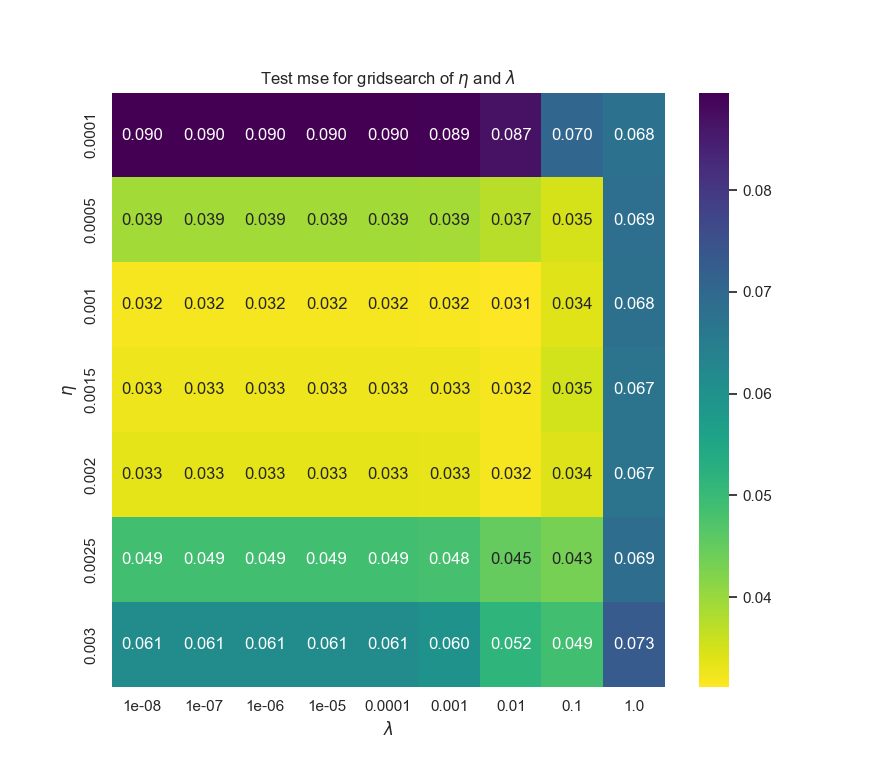
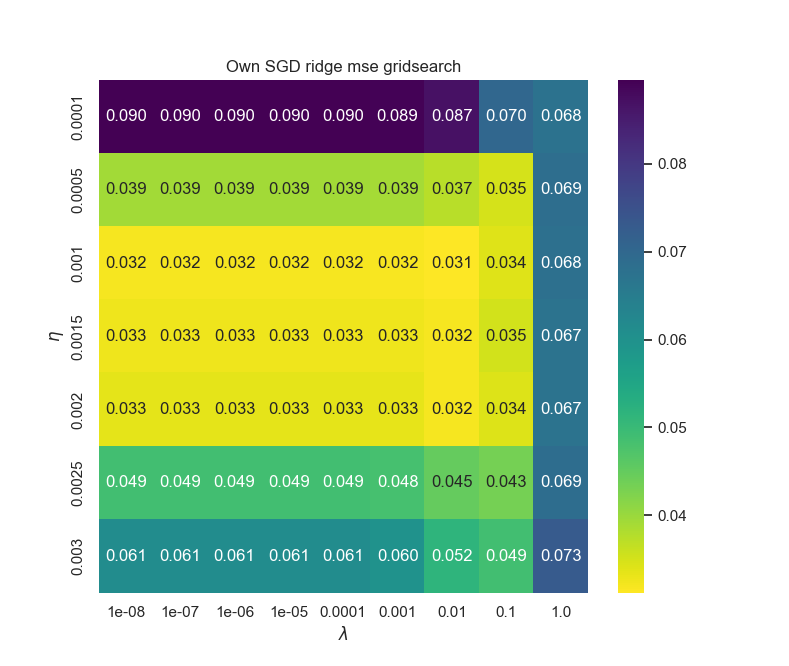
Rydding i figurer og gridsearcher for SGD

diff --git a/project2/SGDRegression.py b/project2/SGDRegression.py
@@ -47,13 +47,13 @@ print("OLS errors")
 print(mean_squared_error(z_test, ytilde_ols))
 print(r2_score(z_test, ytilde_ols))
 print("")
-"""
+
 model_ridge = Ridge(alpha=1e-7).fit(X_train, z_train)
 ytilde_ridge = model_ridge.predict(X_test)
 print("Ridge errors")
 print(mean_squared_error(z_test, ytilde_ridge))
 print(r2_score(z_test, ytilde_ridge))
-"""
+
 
 # For testing single values
 sgdreg = Sdg(X_train, X_test, z_train, z_test, 0.001, 5, 1000)
@@ -226,68 +226,96 @@ plt.show()
 print("Errors with RMS-prop")
 print("MSE: ", mse)
 print("$r^2$: ", r2)
-
-# Gridsearch for eta and gamma
-etas = [0.005,0.01,0.015,0.02,0.025, 0.03]
+"""
+# Gridsearch for eta and gamma/beta for use with momentum and rms-prop. Used for both OLS and Ridge
+etas = [0.005,0.01,0.015,0.02,0.025, 0.03] # rmsprop
+#etas = [0.0001,0.0005,0.001,0.0015,0.002, 0.0025, 0.003] # momentum constant learning rate
 betas = [0,0.1,0.2,0.3,0.4,0.5,0.6,0.7,0.8,0.9]
 mse = np.zeros((len(etas), len(betas)))
 r2 = np.zeros((len(etas), len(betas)))
 for i in range(len(etas)):
     for j in range(len(betas)):
         sgdreg = Sdg(X_train, X_test, z_train, z_test, etas[i], 10, 500)
-        mse[i,j], r2[i,j] = sgdreg.stocastichGD_ols(algo="rmsprop", beta=betas[j])
+        print("")
+        print(etas[i])
+        print(betas[j])
+        mse[i,j], r2[i,j] = sgdreg.stocastichGD_ridge(0.01, algo="rmsprop", beta=betas[j], schedule=False)
         print(mse[i,j])
 
 mse_df_test = pd.DataFrame(mse, index = etas, columns = betas)
-fig, ax = plt.subplots(figsize = (9, 9))
+fig, ax = plt.subplots(figsize = (8, 8))
 sns.heatmap(mse_df_test, annot=True, ax=ax, cmap="viridis_r", fmt='.3f')
-ax.set_title("Gridsearch showing mse")
-ax.set_xlabel("$beta$")
+ax.set_title("SGD RMS-prop ridge mse gridsearch")
+ax.set_xlabel("beta")
 ax.set_ylabel("$\eta$")
 plt.show()
 
 mse_df_test = pd.DataFrame(r2, index = etas, columns = betas)
-fig, ax = plt.subplots(figsize = (9, 9))
+fig, ax = plt.subplots(figsize = (8, 8))
 sns.heatmap(mse_df_test, annot=True, ax=ax, cmap="viridis", fmt='.3f')
-ax.set_title("Gridsearch showing $r^2$ error")
-ax.set_xlabel("$beta$")
+ax.set_title("SGD RMS-prop ridge $r^2$ score gridsearch")
+ax.set_xlabel("beta")
 ax.set_ylabel("$\eta$")
 plt.show()
+"""
 
 '''--------------------------------------------------
                 # RIDGE REGRESSION
 ---------------------------------------------------'''
 
 
-# regular SGD ridge gridsearch
+# SGD ridge gridsearch for eta/lambda
 print('Regular SGD ridge gridsearch')
-epochs = 500
-M = 10
 lambdas = np.logspace(-8,0,9)
 etas = [0.0001,0.0005,0.001,0.0015,0.002,0.0025,0.0030]
 mse_gridsearch = np.zeros((len(etas), len(lambdas)))
 r2_gridsearch = np.zeros((len(etas), len(lambdas)))
+mse_scikit = np.zeros((len(etas), len(lambdas)))
+r2_scikit = np.zeros((len(etas), len(lambdas)))
 #sgdreg = Sdg(X_train, X_test, z_train, z_test, 0.001, M, epochs)
 #sgdreg.stocastichGD_ridge(0)
 
 for i in range(len(etas)):
     for j in range(len(lambdas)):
-        sgdreg = Sdg(X_train, X_test, z_train, z_test, etas[i], M, epochs)
-        mse_gridsearch[i,j], r2_gridsearch[i,j] = sgdreg.stocastichGD_ridge(lambdas[j])
+        sgdreg = Sdg(X_train, X_test, z_train, z_test, etas[i], 10, 500)
+        mse_gridsearch[i,j], r2_gridsearch[i,j] = sgdreg.stocastichGD_ridge(lambdas[j], schedule=False)
 
-# Plot gridsearch
+        sgd_scikit = SGDRegressor(loss='squared_loss', penalty='l2', alpha=lambdas[j], fit_intercept=True, max_iter=500, \
+        tol=0.0001, shuffle=True, random_state=68, learning_rate='invscaling', power_t=0.25, eta0=etas[i])
+        sgd_scikit.fit(X_train, z_train)
+        z_pred_scikit = sgd_scikit.predict(X_test)
+        mse_scikit[i,j] = mean_squared_error(z_test, z_pred_scikit)
+        r2_scikit[i,j] = r2_score(z_test, z_pred_scikit)
+
+# Own SGD
 mse_dataframe = pd.DataFrame(mse_gridsearch, index = etas, columns = lambdas)
-fig, ax = plt.subplots(figsize = (9, 9))
+fig, ax = plt.subplots(figsize = (8, 8))
 sns.heatmap(mse_dataframe, annot=True, ax=ax, cmap="viridis_r", fmt='.3f')
-ax.set_title("Test mse for gridsearch of $\eta$ and $\lambda$")
+ax.set_title("Own SGD ridge mse gridsearch")
 ax.set_xlabel("$\lambda$")
 ax.set_ylabel("$\eta$")
 plt.show()
 
-mse_dataframe = pd.DataFrame(r2_gridsearch, index = etas, columns = lambdas)
-fig, ax = plt.subplots(figsize = (9, 9))
-sns.heatmap(mse_dataframe, annot=True, ax=ax, cmap="viridis", fmt='.3f')
-ax.set_title("Test $r^2$ error for gridsearch of $\eta$ and $\lambda$")
+r2_dataframe = pd.DataFrame(r2_gridsearch, index = etas, columns = lambdas)
+fig, ax = plt.subplots(figsize = (8, 8))
+sns.heatmap(r2_dataframe, annot=True, ax=ax, cmap="viridis", fmt='.3f')
+ax.set_title("Own SGD ridge $r^2$ score gridsearch")
+ax.set_xlabel("$\lambda$")
+ax.set_ylabel("$\eta$")
+plt.show()
+
+mse_dataframe_scikit = pd.DataFrame(mse_scikit, index = etas, columns = lambdas)
+fig, ax = plt.subplots(figsize = (8, 8))
+sns.heatmap(mse_dataframe_scikit, annot=True, ax=ax, cmap="viridis_r", fmt='.3f')
+ax.set_title("Scikit SGD ridge mse gridsearch")
+ax.set_xlabel("$\lambda$")
+ax.set_ylabel("$\eta$")
+plt.show()
+
+r2_dataframe_scikit = pd.DataFrame(r2_scikit, index = etas, columns = lambdas)
+fig, ax = plt.subplots(figsize = (8, 8))
+sns.heatmap(r2_dataframe_scikit, annot=True, ax=ax, cmap="viridis", fmt='.3f')
+ax.set_title("Scikit SGD ridge $r^2$ score gridsearch")
 ax.set_xlabel("$\lambda$")
 ax.set_ylabel("$\eta$")
 plt.show()

diff --git a/project2/nnRegression.py b/project2/nnRegression.py
@@ -270,7 +270,7 @@ n_hidden_layers = 2
 activation = "Sigmoid"
 initilize = "Xavier"
 
-
+"""
 # Own nn vs Scikit
 print("Own nn")
 network1 = NN(X_train, X_test, z_train, z_test, n_hidden_layers, n_hidden_neurons, "RELU", "He") #Create network
@@ -308,10 +308,10 @@ plt.ylabel('$r^2$ error')
 plt.title('Test $r^2$ error as function of epochs with Sigmoid activation')
 plt.show()
 
-
+"""
 # Gridsearch for eta/lambda
-etas = [0.0001, 0.0005,0.001, 0.005]
-lambdas = [1e-1, 1e-3, 1e-4, 1e-5, 1e-6, 1e-7, 1e-8]
+etas = [0.0001, 0.0002,0.0003,0.0006,0.001]
+lambdas = [1e-1, 1e-2, 1e-3, 1e-4, 1e-5, 1e-6, 1e-7, 1e-8]
 #lambdas = [1e-1, 1e-3, 1e-5, 1e-7, 1e-9]
 
 mse_grid_test = np.zeros((len(etas),len(lambdas)))
@@ -322,12 +322,13 @@ r2_grid_test_scikit = np.zeros((len(etas),len(lambdas)))
 for i in range(len(etas)):
     for j in range(len(lambdas)):
         # Own NN
-        nn = NN(X_train, X_test, z_train, z_test, n_hidden_layers, n_hidden_neurons, activation, initilize)
+        nn = NN(X_train, X_test, z_train, z_test, n_hidden_layers, n_hidden_neurons, "RELU", "He")
         nn.train(200, 10, etas[i], lambdas[j])
         z_pred_test = nn.predict(X_test)
 
         mse_grid_test[i,j] = mean_squared_error(z_test, z_pred_test)
         r2_grid_test[i,j] = r2_score(z_test, z_pred_test)
+        print(lambdas[j])
         print(mse_grid_test[i,j])
 
         # Scikit
@@ -373,7 +374,7 @@ ax.set_title("Test $r^2$ gridsearch")
 ax.set_xlabel("$\lambda$")
 ax.set_ylabel("$\eta$")
 plt.show()
-
+"""
 
 # Gridsearch of neurons and layers
 neurons = [10, 20, 30, 40, 50, 60, 70, 80, 90, 100]
@@ -481,3 +482,4 @@ plt.xlabel('epochs')
 plt.ylabel('$r^2 score$')
 plt.title('$r^2$ score as function of epochs: Comparison of different activations')
 plt.show()
+"""

diff --git a/project2/module1.py b/project2/module1.py
@@ -183,10 +183,10 @@ class Sdg:
 
                 self.ytilde_sgd_ridge = self.X_test @ theta
                 mse_sgd_ridge = mean_squared_error(self.y_test, self.ytilde_sgd_ridge)
-                r2_sgd_ridge = r2_score(self.y_test, self.ytilde_sgd_ols)
+                r2_sgd_ridge = r2_score(self.y_test, self.ytilde_sgd_ridge)
                 self.epochs.append(epoch)
-                self.mse.append(mse_sgd_ols)
-                self.r2.append(r2_sgd_ols)
+                self.mse.append(mse_sgd_ridge)
+                self.r2.append(r2_sgd_ridge)
                 print(mse_sgd_ridge)
                 return mse_sgd_ridge, r2_sgd_ridge
 
@@ -207,10 +207,10 @@ class Sdg:
 
             self.ytilde_sgd_ridge = self.X_test @ theta
             mse_sgd_ridge = mean_squared_error(self.y_test, self.ytilde_sgd_ridge)
-            r2_sgd_ridge = r2_score(self.y_test, self.ytilde_sgd_ols)
+            r2_sgd_ridge = r2_score(self.y_test, self.ytilde_sgd_ridge)
             self.epochs.append(epoch)
-            self.mse.append(mse_sgd_ols)
-            self.r2.append(r2_sgd_ols)
+            self.mse.append(mse_sgd_ridge)
+            self.r2.append(r2_sgd_ridge)
             print(mse_sgd_ridge)
             return mse_sgd_ridge, r2_sgd_ridge
 
